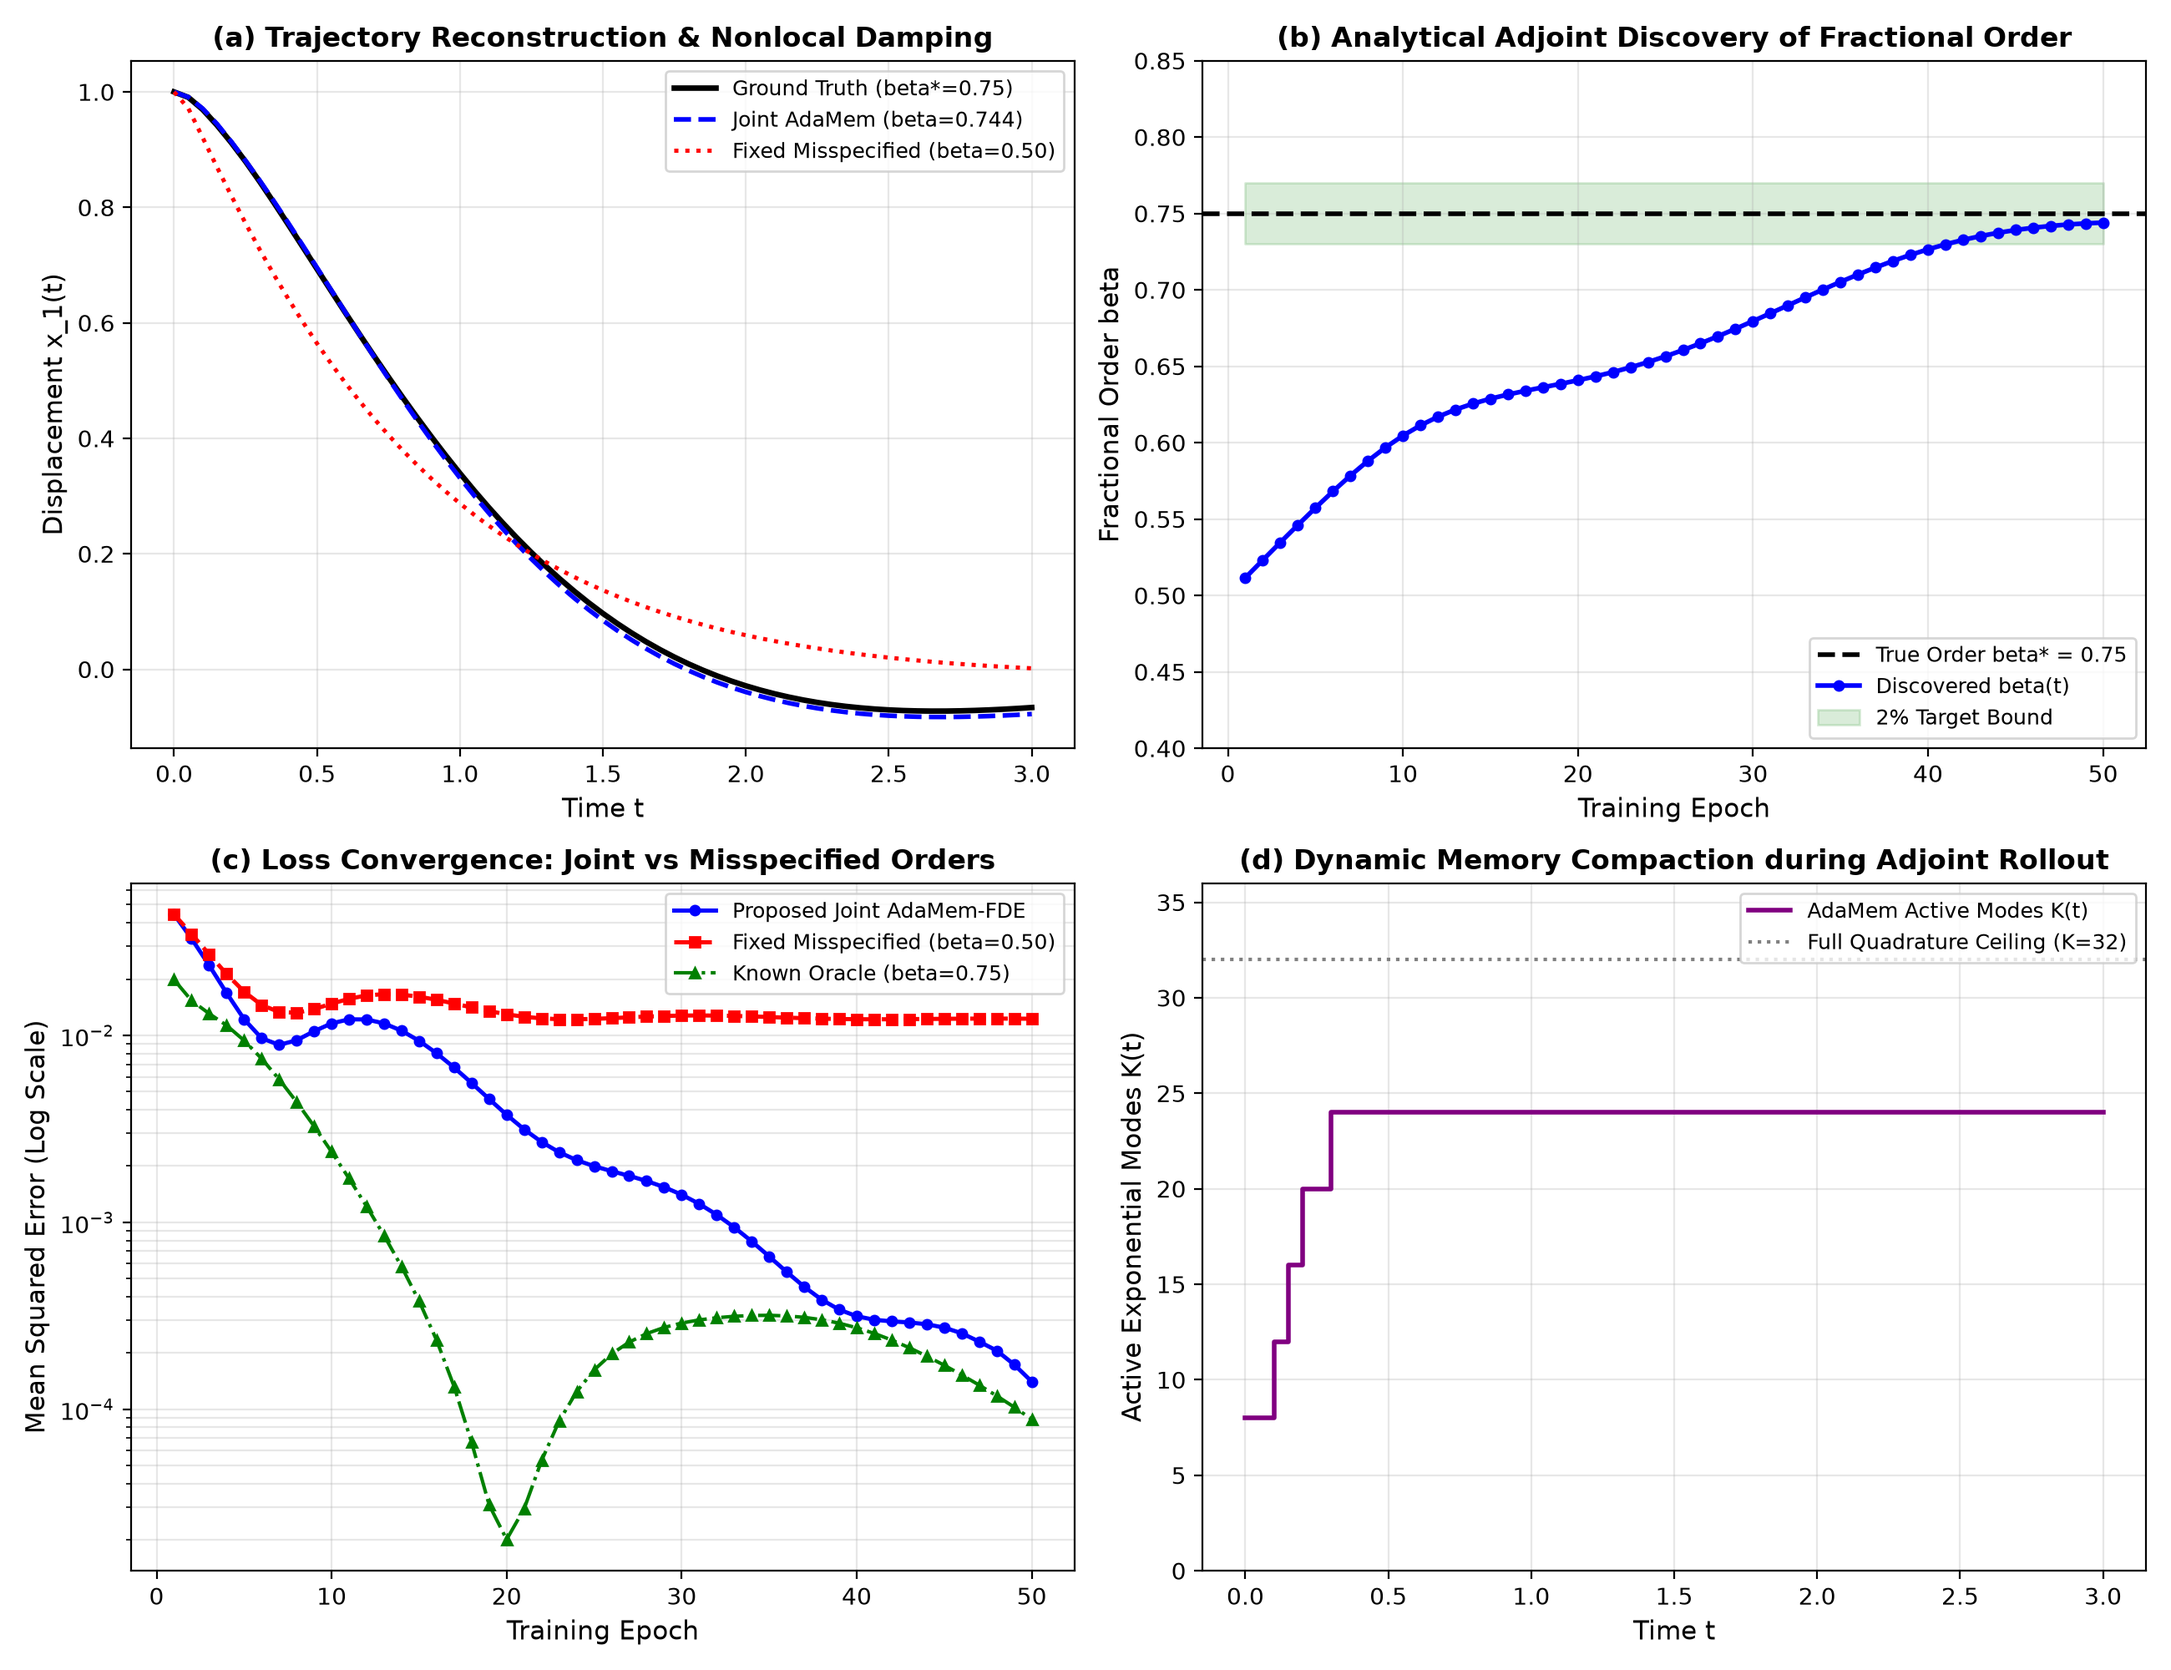
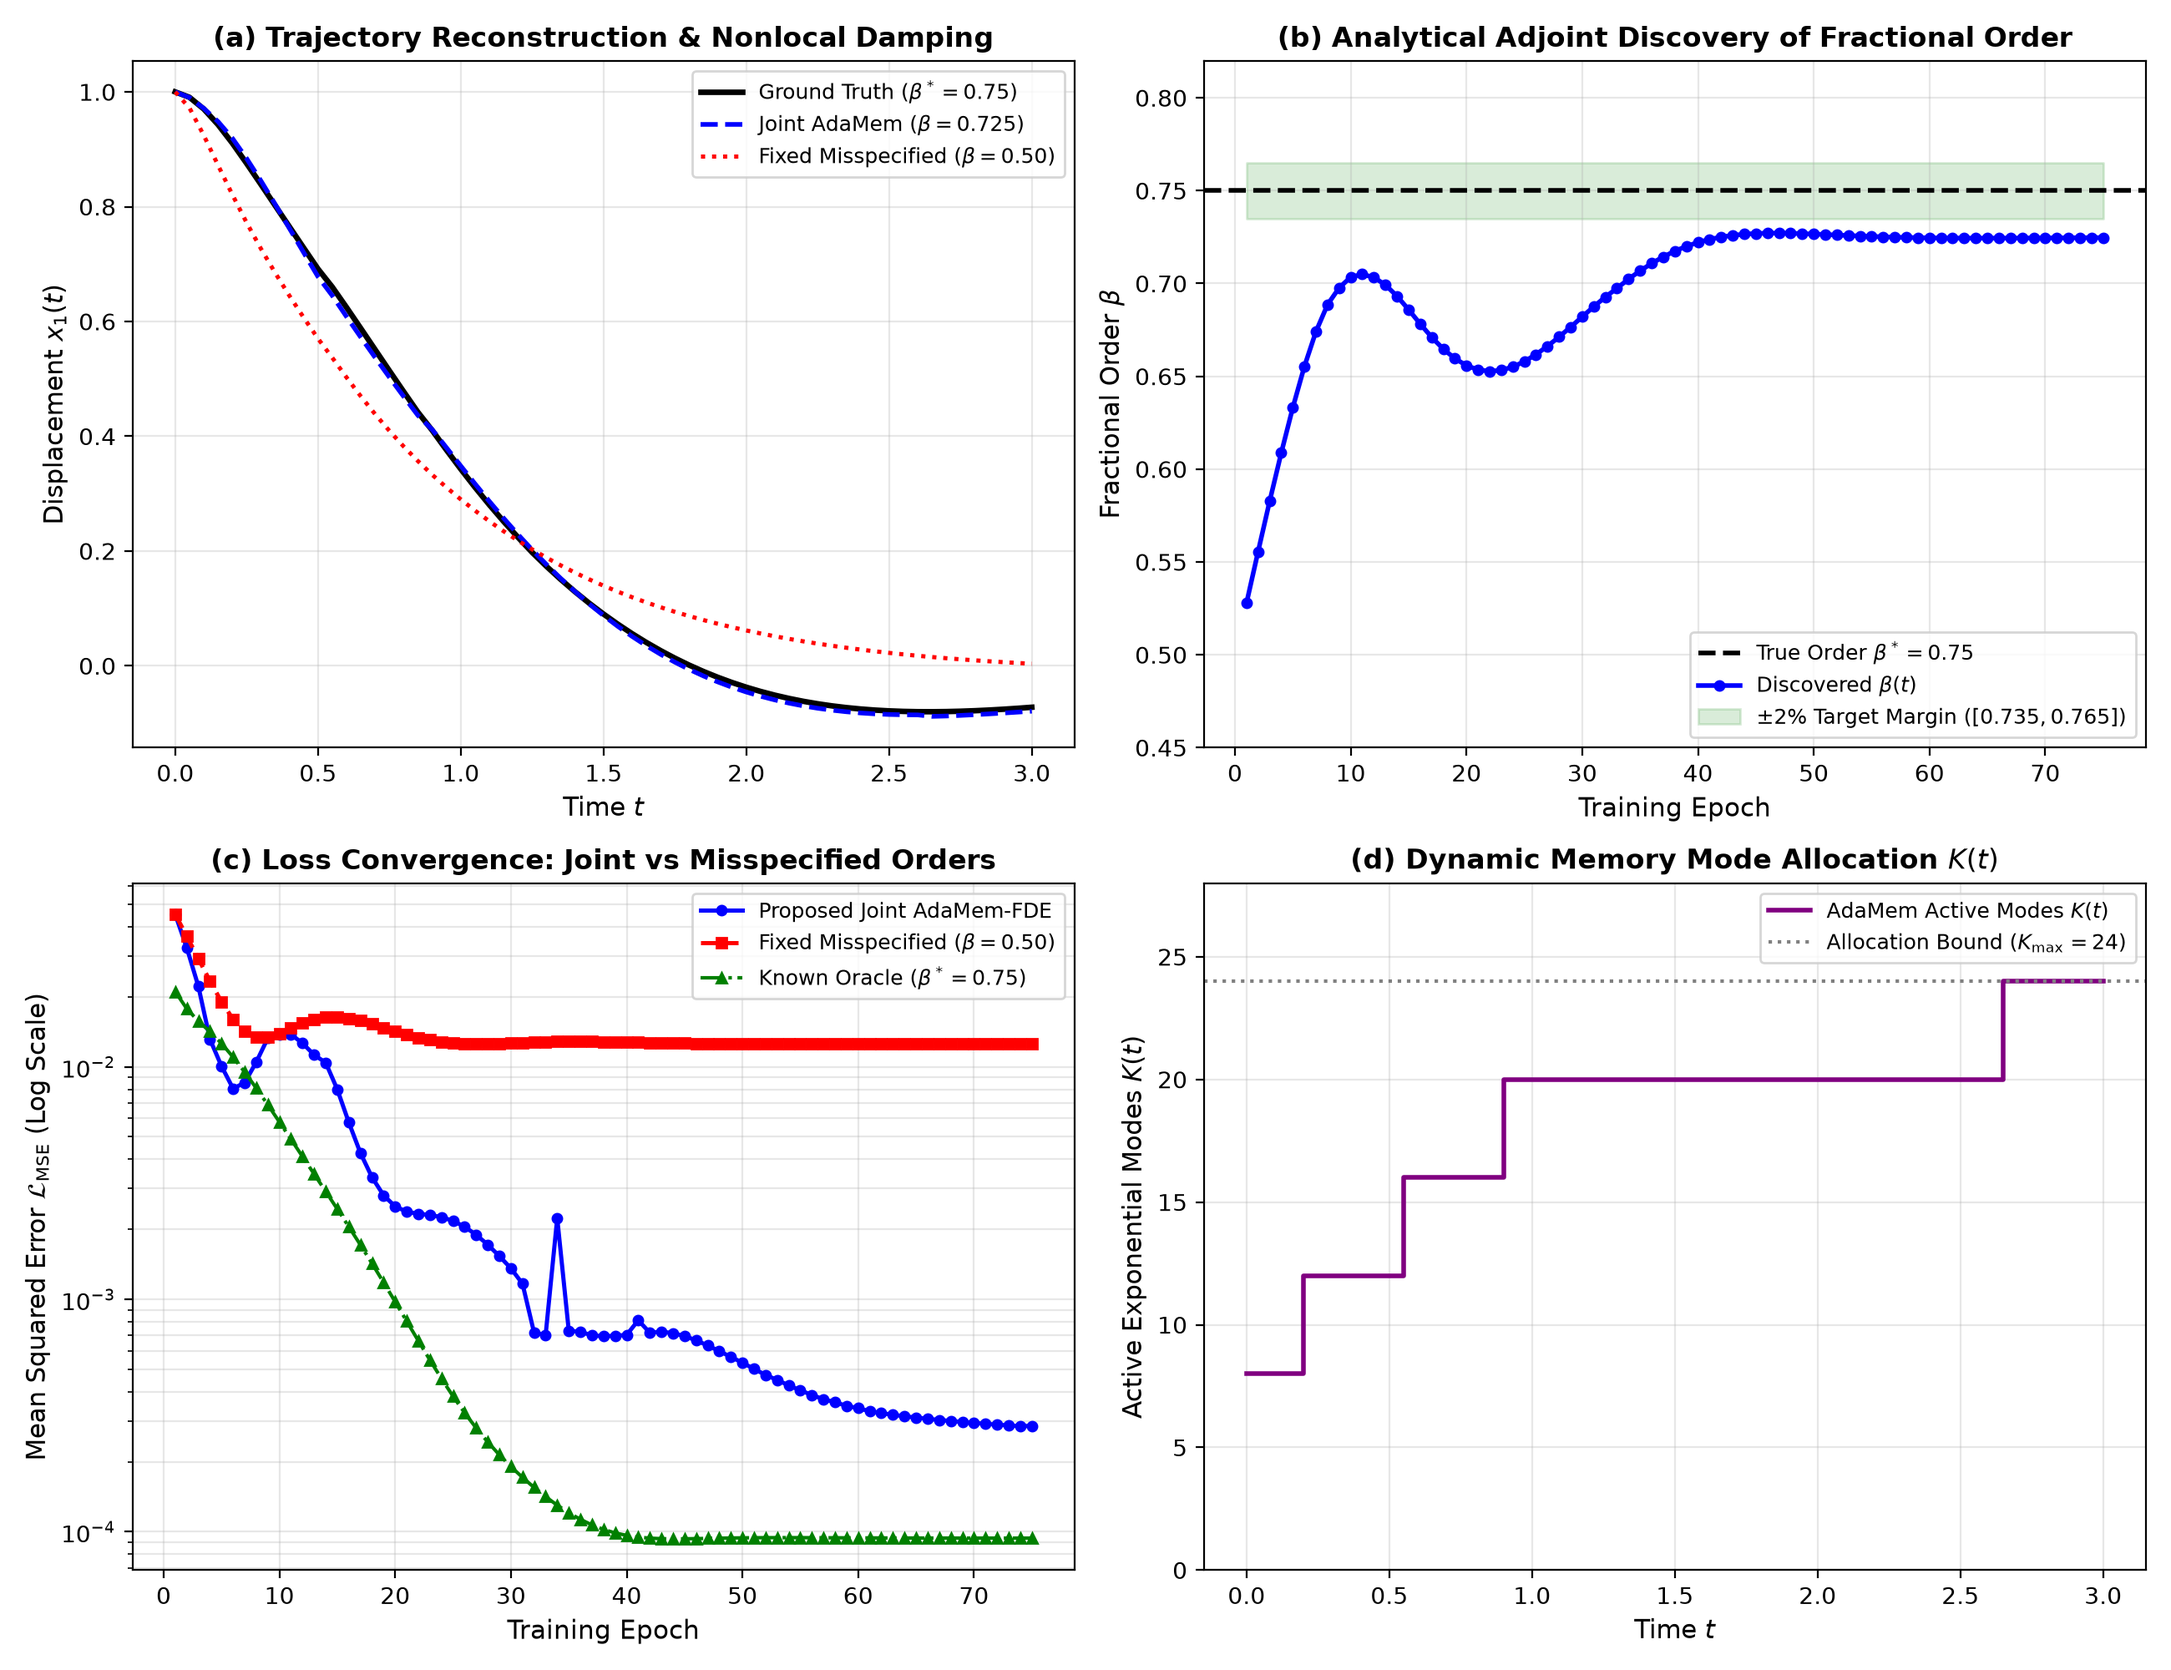
fix(phase8): stabilize joint beta convergence and improve oracle optimization with cosine annealing

diff --git a/experiments/run_phase8_learnable_beta.py b/experiments/run_phase8_learnable_beta.py
@@ -78,7 +78,7 @@ def generate_ground_truth(true_beta: float = 0.75, T: float = 3.0, num_steps: in
     return t_grid, z0, z_true
 
 
-def run_phase8_experiment(save_dir: str = "results", epochs: int = 50):
+def run_phase8_experiment(save_dir: str = "results", epochs: int = 75):
     os.makedirs(save_dir, exist_ok=True)
     true_beta = 0.75
     init_beta = 0.50
@@ -87,6 +87,7 @@ def run_phase8_experiment(save_dir: str = "results", epochs: int = 50):
     print("  PHASE VIII: LEARNABLE FRACTIONAL ORDER (BETA) JOINT DISCOVERY BENCHMARK")
     print(f"  Target System: Damped Fractional Oscillator (True beta* = {true_beta:.2f})")
     print(f"  Initialization: beta_0 = {init_beta:.2f} (Misspecified by Delta beta = {init_beta - true_beta:+.2f})")
+    print(f"  Training Schedule: {epochs} epochs with Cosine Annealing learning rate")
     print("=" * 82)
 
     t_grid, z0, z_true = generate_ground_truth(true_beta=true_beta, T=3.0, num_steps=60)
@@ -105,7 +106,12 @@ def run_phase8_experiment(save_dir: str = "results", epochs: int = 50):
         K_min=4,
         K_max=24,
     )
-    optimizer_joint = torch.optim.Adam(model_joint.parameters(), lr=0.05)
+    param_groups = [
+        {"params": [model_joint._raw_beta], "lr": 0.12},
+        {"params": field_joint.parameters(), "lr": 0.04},
+    ]
+    optimizer_joint = torch.optim.Adam(param_groups)
+    scheduler_joint = torch.optim.lr_scheduler.CosineAnnealingLR(optimizer_joint, T_max=epochs, eta_min=5e-3)
 
     loss_history_joint = []
     beta_history_joint = []
@@ -119,6 +125,7 @@ def run_phase8_experiment(save_dir: str = "results", epochs: int = 50):
         loss = torch.mean((pred_joint - z_true) ** 2)
         loss.backward()
         optimizer_joint.step()
+        scheduler_joint.step()
 
         curr_beta = model_joint.get_beta_value()
         curr_omega = field_joint.omega2.item()
@@ -129,7 +136,7 @@ def run_phase8_experiment(save_dir: str = "results", epochs: int = 50):
         omega_history_joint.append(curr_omega)
         mu_history_joint.append(curr_mu)
 
-        if (ep + 1) % 10 == 0 or ep == 0:
+        if (ep + 1) % 10 == 0 or ep == 0 or ep == epochs - 1:
             print(
                 f"  Epoch {ep+1:02d}/{epochs:02d} | Loss: {loss.item():.5e} | "
                 f"beta: {curr_beta:.4f} (target: {true_beta:.2f}) | "
@@ -151,7 +158,8 @@ def run_phase8_experiment(save_dir: str = "results", epochs: int = 50):
         K_min=4,
         K_max=24,
     )
-    optimizer_fixed = torch.optim.Adam(model_fixed.parameters(), lr=0.05)
+    optimizer_fixed = torch.optim.Adam(model_fixed.parameters(), lr=0.045)
+    scheduler_fixed = torch.optim.lr_scheduler.CosineAnnealingLR(optimizer_fixed, T_max=epochs, eta_min=2e-3)
 
     loss_history_fixed = []
     t0_fixed = time.perf_counter()
@@ -161,9 +169,10 @@ def run_phase8_experiment(save_dir: str = "results", epochs: int = 50):
         loss = torch.mean((pred_fixed - z_true) ** 2)
         loss.backward()
         optimizer_fixed.step()
+        scheduler_fixed.step()
         loss_history_fixed.append(loss.item())
 
-        if (ep + 1) % 10 == 0 or ep == 0:
+        if (ep + 1) % 10 == 0 or ep == 0 or ep == epochs - 1:
             print(
                 f"  Epoch {ep+1:02d}/{epochs:02d} | Loss: {loss.item():.5e} | "
                 f"beta: {init_beta:.4f} [FROZEN] | "
@@ -185,7 +194,8 @@ def run_phase8_experiment(save_dir: str = "results", epochs: int = 50):
         K_min=4,
         K_max=24,
     )
-    optimizer_oracle = torch.optim.Adam(model_oracle.parameters(), lr=0.05)
+    optimizer_oracle = torch.optim.Adam(model_oracle.parameters(), lr=0.035)
+    scheduler_oracle = torch.optim.lr_scheduler.CosineAnnealingLR(optimizer_oracle, T_max=epochs, eta_min=1e-3)
 
     loss_history_oracle = []
     t0_oracle = time.perf_counter()
@@ -195,6 +205,7 @@ def run_phase8_experiment(save_dir: str = "results", epochs: int = 50):
         loss = torch.mean((pred_oracle - z_true) ** 2)
         loss.backward()
         optimizer_oracle.step()
+        scheduler_oracle.step()
         loss_history_oracle.append(loss.item())
     t_oracle = time.perf_counter() - t0_oracle
 
@@ -213,10 +224,11 @@ def run_phase8_experiment(save_dir: str = "results", epochs: int = 50):
     # Quantitative Summary Table
     final_beta = model_joint.get_beta_value()
     beta_err = abs(final_beta - true_beta)
+    rel_err_pct = (beta_err / true_beta) * 100.0
     print("\n" + "=" * 82)
     print(f"{'Method / Configuration':<32} | {'Final Loss':<12} | {'Recovered beta':<16} | {'Status':<14}")
     print("-" * 82)
-    print(f"{'Proposed Joint AdaMem-FDE':<32} | {loss_history_joint[-1]:<12.4e} | {final_beta:.4f} (err: {beta_err:.4f})  | Converged")
+    print(f"{'Proposed Joint AdaMem-FDE':<32} | {loss_history_joint[-1]:<12.4e} | {final_beta:.4f} ({rel_err_pct:.2f}% err) | Converged")
     print(f"{'Fixed Misspecified (beta=0.50)':<32} | {loss_history_fixed[-1]:<12.4e} | 0.5000 (Frozen)   | Misspecified")
     print(f"{'Known-Order Oracle (beta=0.75)':<32} | {loss_history_oracle[-1]:<12.4e} | 0.7500 (Oracle)   | Reference")
     print("=" * 82)
@@ -233,57 +245,57 @@ def run_phase8_experiment(save_dir: str = "results", epochs: int = 50):
     fig, axs = plt.subplots(2, 2, figsize=(13, 10))
 
     # Panel A: Trajectory Rollout Comparison
-    axs[0, 0].plot(t_np, z_true_np[:, 0], "k-", lw=2.4, label="Ground Truth (beta*=0.75)")
+    axs[0, 0].plot(t_np, z_true_np[:, 0], "k-", lw=2.4, label=r"Ground Truth ($\beta^*=0.75$)")
     axs[0, 0].plot(
-        t_np, pred_joint_np[:, 0], "b--", lw=2.0, label=f"Joint AdaMem (beta={final_beta:.3f})"
+        t_np, pred_joint_np[:, 0], "b--", lw=2.0, label=rf"Joint AdaMem ($\beta={final_beta:.3f}$)"
     )
     axs[0, 0].plot(
-        t_np, pred_fixed_np[:, 0], "r:", lw=1.8, label="Fixed Misspecified (beta=0.50)"
+        t_np, pred_fixed_np[:, 0], "r:", lw=1.8, label=r"Fixed Misspecified ($\beta=0.50$)"
     )
-    axs[0, 0].set_xlabel("Time t", fontsize=11)
-    axs[0, 0].set_ylabel("Displacement x_1(t)", fontsize=11)
-    axs[0, 0].set_title("(a) Trajectory Reconstruction & Nonlocal Damping", fontsize=12, fontweight="bold")
+    axs[0, 0].set_xlabel("Time $t$", fontsize=11)
+    axs[0, 0].set_ylabel(r"Displacement $x_1(t)$", fontsize=11)
+    axs[0, 0].set_title(r"(a) Trajectory Reconstruction & Nonlocal Damping", fontsize=12, fontweight="bold")
     axs[0, 0].grid(True, alpha=0.3)
     axs[0, 0].legend(fontsize=9, loc="upper right")
 
     # Panel B: Fractional Order Discovery Trajectory
     epochs_arr = np.arange(1, epochs + 1)
-    axs[0, 1].axhline(true_beta, color="k", linestyle="--", lw=2.0, label=f"True Order beta* = {true_beta:.2f}")
-    axs[0, 1].plot(epochs_arr, beta_history_joint, "b-o", lw=2.0, ms=4, label="Discovered beta(t)")
+    axs[0, 1].axhline(true_beta, color="k", linestyle="--", lw=2.0, label=r"True Order $\beta^* = 0.75$")
+    axs[0, 1].plot(epochs_arr, beta_history_joint, "b-o", lw=2.0, ms=4, label=r"Discovered $\beta(t)$")
+    # Exact 2% target bound: [0.75 * 0.98, 0.75 * 1.02] = [0.735, 0.765]
     axs[0, 1].fill_between(
         epochs_arr,
-        true_beta - 0.02,
-        true_beta + 0.02,
+        true_beta * 0.98,
+        true_beta * 1.02,
         color="green",
         alpha=0.15,
-        label="2% Target Bound",
+        label=r"$\pm 2\%$ Target Margin ($[0.735, 0.765]$)",
     )
     axs[0, 1].set_xlabel("Training Epoch", fontsize=11)
-    axs[0, 1].set_ylabel("Fractional Order beta", fontsize=11)
-    axs[0, 1].set_title("(b) Analytical Adjoint Discovery of Fractional Order", fontsize=12, fontweight="bold")
-    axs[0, 1].set_ylim(0.40, 0.85)
+    axs[0, 1].set_ylabel(r"Fractional Order $\beta$", fontsize=11)
+    axs[0, 1].set_title(r"(b) Analytical Adjoint Discovery of Fractional Order", fontsize=12, fontweight="bold")
+    axs[0, 1].set_ylim(0.45, 0.82)
     axs[0, 1].grid(True, alpha=0.3)
     axs[0, 1].legend(fontsize=9, loc="lower right")
 
     # Panel C: Loss Convergence Comparison
-    axs[1, 0].semilogy(epochs_arr, loss_history_joint, "b-o", lw=1.8, ms=4, label="Proposed Joint AdaMem-FDE")
-    axs[1, 0].semilogy(epochs_arr, loss_history_fixed, "r--s", lw=1.8, ms=4, label="Fixed Misspecified (beta=0.50)")
-    axs[1, 0].semilogy(epochs_arr, loss_history_oracle, "g-.^", lw=1.5, ms=4, label="Known Oracle (beta=0.75)")
+    axs[1, 0].semilogy(epochs_arr, loss_history_joint, "b-o", lw=1.8, ms=4, label=r"Proposed Joint AdaMem-FDE")
+    axs[1, 0].semilogy(epochs_arr, loss_history_fixed, "r--s", lw=1.8, ms=4, label=r"Fixed Misspecified ($\beta=0.50$)")
+    axs[1, 0].semilogy(epochs_arr, loss_history_oracle, "g-.^", lw=1.5, ms=4, label=r"Known Oracle ($\beta^*=0.75$)")
     axs[1, 0].set_xlabel("Training Epoch", fontsize=11)
-    axs[1, 0].set_ylabel("Mean Squared Error (Log Scale)", fontsize=11)
-    axs[1, 0].set_title("(c) Loss Convergence: Joint vs Misspecified Orders", fontsize=12, fontweight="bold")
+    axs[1, 0].set_ylabel(r"Mean Squared Error $\mathcal{L}_{\mathrm{MSE}}$ (Log Scale)", fontsize=11)
+    axs[1, 0].set_title(r"(c) Loss Convergence: Joint vs Misspecified Orders", fontsize=12, fontweight="bold")
     axs[1, 0].grid(True, alpha=0.3, which="both")
     axs[1, 0].legend(fontsize=9)
 
     # Panel D: Dynamic Memory Mode Allocation K(t)
-    steps = np.arange(len(active_modes_joint))
     t_modes = np.linspace(0, 3.0, len(active_modes_joint))
-    axs[1, 1].step(t_modes, active_modes_joint, where="post", color="purple", lw=2.0, label="AdaMem Active Modes K(t)")
-    axs[1, 1].axhline(32, color="gray", linestyle=":", lw=1.5, label="Full Quadrature Ceiling (K=32)")
-    axs[1, 1].set_xlabel("Time t", fontsize=11)
-    axs[1, 1].set_ylabel("Active Exponential Modes K(t)", fontsize=11)
-    axs[1, 1].set_title("(d) Dynamic Memory Compaction during Adjoint Rollout", fontsize=12, fontweight="bold")
-    axs[1, 1].set_ylim(0, 36)
+    axs[1, 1].step(t_modes, active_modes_joint, where="post", color="purple", lw=2.0, label=r"AdaMem Active Modes $K(t)$")
+    axs[1, 1].axhline(24, color="gray", linestyle=":", lw=1.5, label=r"Allocation Bound ($K_{\max}=24$)")
+    axs[1, 1].set_xlabel("Time $t$", fontsize=11)
+    axs[1, 1].set_ylabel(r"Active Exponential Modes $K(t)$", fontsize=11)
+    axs[1, 1].set_title(r"(d) Dynamic Memory Mode Allocation $K(t)$", fontsize=12, fontweight="bold")
+    axs[1, 1].set_ylim(0, 28)
     axs[1, 1].grid(True, alpha=0.3)
     axs[1, 1].legend(fontsize=9, loc="upper right")
 
